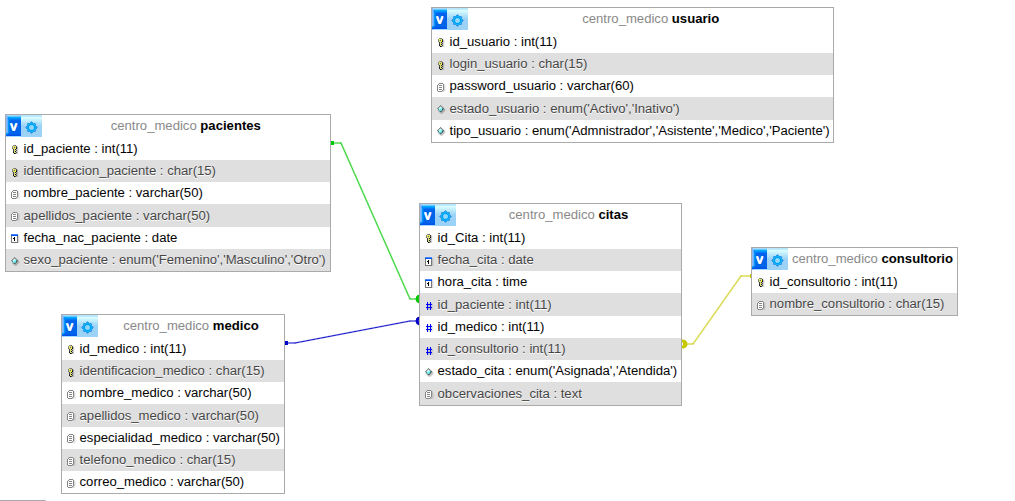
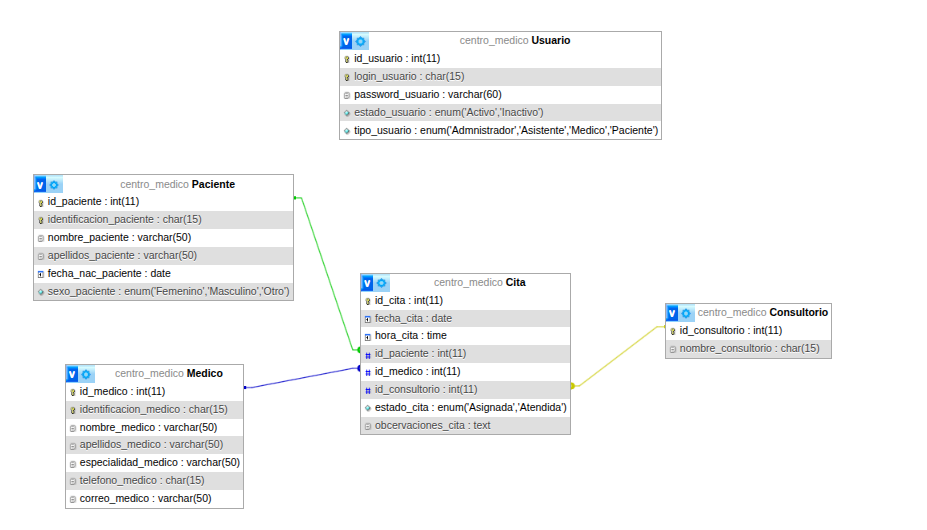
act

diff --git a/config/conexion.php b/config/conexion.php
@@ -1,0 +1,34 @@
+<?php
+    // scrip para crear una conexión con la BD
+
+    // Parametros requeridos para la conexión con la BD
+
+    // Parametros BD local - Constantes
+    define('USER', 'ncabrera'); // Crea la constante USER con 'root'
+    define('PW', '12345');
+    define('HOST', 'localhost');
+    define('BD', 'centro_medico');
+
+    // Parametros BD local - Constantes
+    /*define('USER', 'if0_41712639'); // Crea la constante USER con 'root'
+    define('PW', 'kX3CL0T0NA6cqwj');
+    define('HOST', 'sql213.infinityfree.com');
+    define('BD', 'if0_41712639_centro_medico');*/
+
+    // Conexión  con la BD
+    $conexion = mysqli_connect(HOST, USER, PW, BD);
+    
+    // Establecer conjunto de caracteres para el hosting
+    mysqli_set_charset($conexion, 'utf8');
+
+    // Verificar la conexión con la BD
+    
+    if (!$conexion)
+    {
+        die("La conexión con a BD falló: " + mysqli_error($conexion));
+    }
+    else
+    {
+        die("Conexión a la BD exitosa");
+    }
+?>
